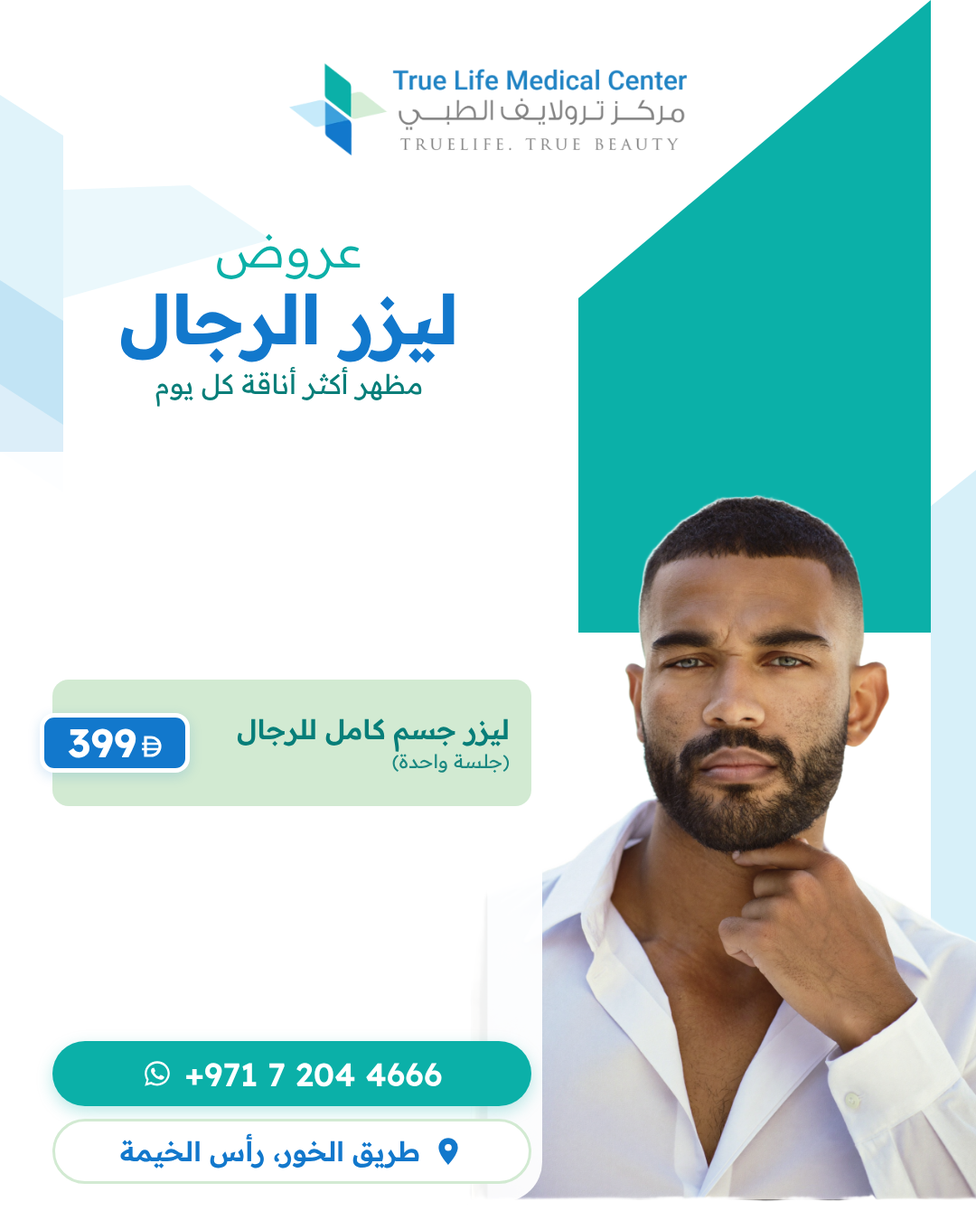
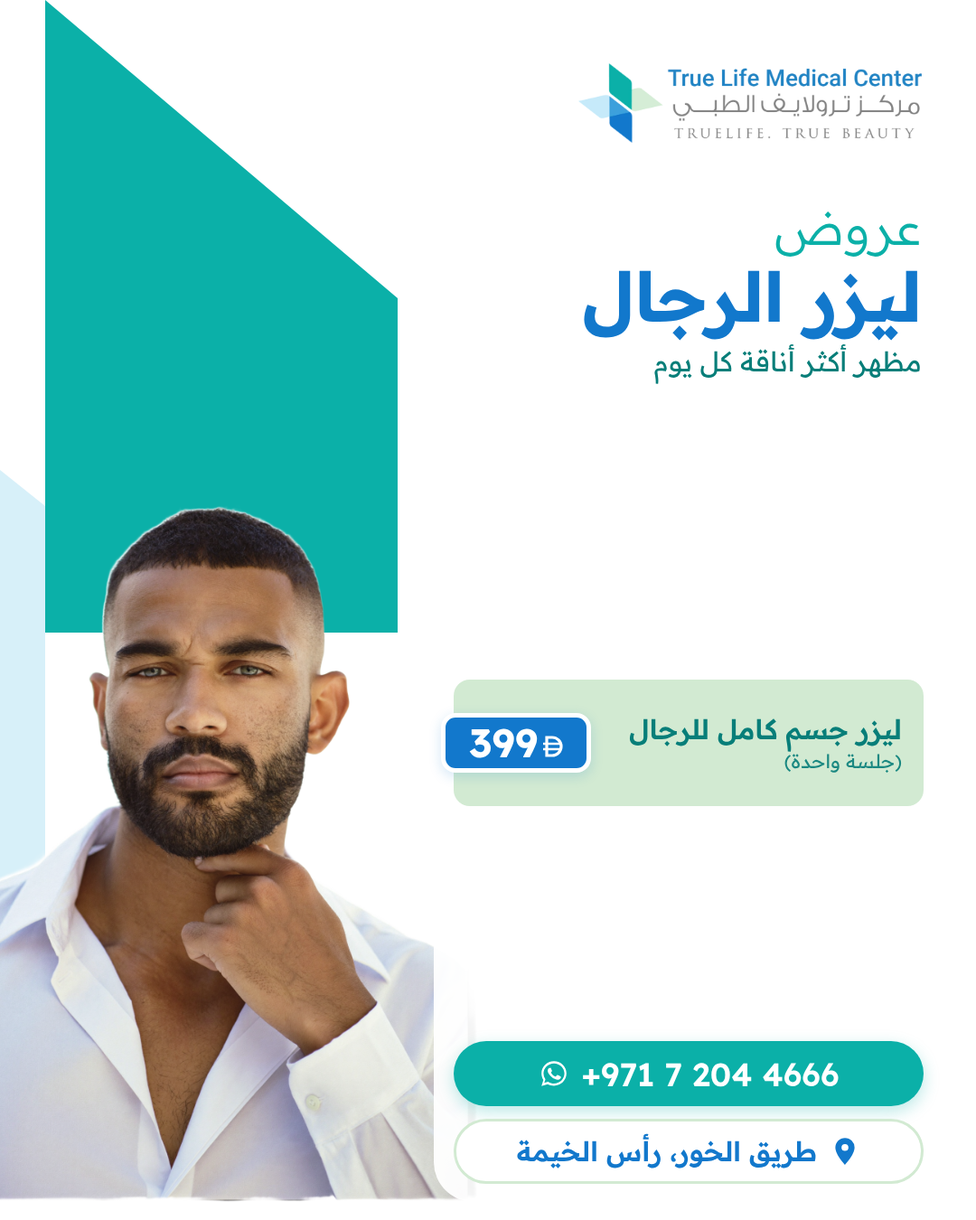
Offer covers: model left, text right-aligned
Claude-Session: https://claude.ai/code/session_01EZd6nkjhojbY1JhgPgko2h

diff --git a/designs/offers/derma.html b/designs/offers/derma.html
@@ -6,35 +6,32 @@ html,body{width:1080px;height:1350px;background:#fff;overflow:hidden}
 body{font-family:'Readex Pro',sans-serif;position:relative;direction:rtl}
 .bg{position:absolute;inset:0;width:1080px;height:1350px}
 .logo{position:absolute;top:70px;left:50%;transform:translateX(-50%);width:440px}
-.model{position:absolute;right:-70px;bottom:0;width:650px;height:auto}
-.product{position:absolute;right:-150px;bottom:150px;width:800px;height:auto}
-.title{position:absolute;top:245px;left:40px;width:560px;text-align:center}
+.model{position:absolute;left:-90px;bottom:0;width:640px;height:auto}
+.product{position:absolute;left:-170px;bottom:180px;width:760px;height:auto}
+.title{position:absolute;top:220px;right:60px;width:540px;text-align:right}
 .title .pre{font-size:56px;font-weight:300;color:var(--teal);line-height:1.1}
 .title .main{font-size:76px;font-weight:700;color:var(--blue);line-height:1.2;white-space:nowrap}
 .title .tagline{font-size:30px;font-weight:400;color:var(--deepteal);margin-top:6px;line-height:1.4}
-.panel{position:absolute;top:500px;left:0;width:600px;height:830px;background:rgba(255,255,255,.94);border-top-right-radius:44px;border-bottom-right-radius:44px}
-.rows{position:absolute;left:58px;width:530px;display:flex;flex-direction:column;gap:14px}
+.panel{position:absolute;top:500px;right:0;width:600px;height:830px;background:rgba(255,255,255,.94);border-top-left-radius:44px;border-bottom-left-radius:44px}
+.rows{position:absolute;right:58px;width:520px;display:flex;flex-direction:column;gap:14px}
 .row{position:relative;background:var(--mint);border-radius:18px;display:flex;flex-direction:column;justify-content:center;padding:10px 24px 10px 172px;text-align:right}
 .row .name{font-weight:600;color:var(--deepteal);line-height:1.35}
 .row .sub{font-size:21px;font-weight:400;color:var(--deepteal);line-height:1.4;opacity:.9}
 .pill{position:absolute;left:-14px;top:50%;transform:translateY(-50%);height:66px;min-width:166px;background:var(--blue);border:5px solid #fff;border-radius:16px;box-shadow:0 4px 14px rgba(18,120,204,.18);display:flex;align-items:center;justify-content:center;gap:6px;direction:ltr;color:#fff;padding:0 14px}
 .pill b{font-size:44px;font-weight:700;line-height:1}
 .pill svg{width:22px;height:24px;margin-top:8px}
-.footer{position:absolute;bottom:40px;left:58px;width:530px;display:flex;flex-direction:column;gap:14px}
+.footer{position:absolute;bottom:40px;right:58px;width:520px;display:flex;flex-direction:column;gap:14px}
 .chip{display:flex;align-items:center;justify-content:center;gap:14px;height:72px;border-radius:36px;padding:0 26px;font-weight:600}
 .chip svg{width:34px;height:34px;flex:none}
 .chip.wa{background:var(--teal);color:#fff;font-size:36px;direction:ltr;box-shadow:0 6px 18px rgba(11,176,168,.28)}
 .chip.loc{background:#fff;border:3px solid var(--mint);color:var(--blue);font-size:30px}
 </style></head><body>
   <svg class="bg" viewBox="0 0 1080 1350">
-    <polygon points="0,105 70,150 70,470 0,425" fill="#C6EAF6" opacity=".55"/>
-    <polygon points="0,310 70,355 70,545 0,500" fill="#3DA0DC" opacity=".18"/>
-    <polygon points="70,210 210,205 300,265 70,330" fill="#C6EAF6" opacity=".35"/>
-    <polygon points="640,330 1030,0 1030,700 640,700" fill="#0BB0A8"/>
-    <polygon points="1030,560 1080,520 1080,1100 1030,1100" fill="#C6EAF6" opacity=".7"/>
-  </svg>
+  <polygon points="440,330 50,0 50,700 440,700" fill="#0BB0A8"/>
+  <polygon points="50,560 0,520 0,1100 50,1100" fill="#C6EAF6" opacity=".7"/>
+</svg>
   <img class="model" src="model_derma.png" alt="">
-  <img class="logo" src="../brand/TL_logo_primary_1024x237.png" alt="True Life Medical Center">
+  <img class="logo" style="left:auto;right:60px;transform:none;width:380px" src="../brand/TL_logo_primary_1024x237.png" alt="True Life Medical Center">
   <div class="title"><div class="pre">عروض</div><div class="main" style="font-size:76px">الجلدية</div></div>
   <div class="panel"></div>
   <div class="rows" style="top:525px"><div class="row" style="min-height:88px"><div class="name" style="font-size:27px">بوتوكس أو فيلر</div><div class="sub">(ابتداءً من)</div><div class="pill"><b>999</b><svg viewBox="0 0 22 24"><path d="M4 2v20h6a10 10 0 0 0 0-20H4z" fill="none" stroke="#fff" stroke-width="3.2"/><path d="M0 9h20M0 15h20" stroke="#fff" stroke-width="2.4"/></svg></div></div><div class="row" style="min-height:88px"><div class="name" style="font-size:27px">إبرة سلمون DNA</div><div class="sub">+ ميني فيشال</div><div class="pill"><b>1,099</b><svg viewBox="0 0 22 24"><path d="M4 2v20h6a10 10 0 0 0 0-20H4z" fill="none" stroke="#fff" stroke-width="3.2"/><path d="M0 9h20M0 15h20" stroke="#fff" stroke-width="2.4"/></svg></div></div><div class="row" style="min-height:88px"><div class="name" style="font-size:27px">كروما سلمون DNA</div><div class="sub">+ جلسة ديرما بن</div><div class="pill"><b>1,399</b><svg viewBox="0 0 22 24"><path d="M4 2v20h6a10 10 0 0 0 0-20H4z" fill="none" stroke="#fff" stroke-width="3.2"/><path d="M0 9h20M0 15h20" stroke="#fff" stroke-width="2.4"/></svg></div></div><div class="row" style="min-height:88px"><div class="name" style="font-size:27px">إبرة لفت إيج للشد</div><div class="sub">+ ميني فيشال</div><div class="pill"><b>1,499</b><svg viewBox="0 0 22 24"><path d="M4 2v20h6a10 10 0 0 0 0-20H4z" fill="none" stroke="#fff" stroke-width="3.2"/><path d="M0 9h20M0 15h20" stroke="#fff" stroke-width="2.4"/></svg></div></div><div class="row" style="min-height:88px"><div class="name" style="font-size:27px">بوكس RRS</div><div class="sub">+ سيروم RRS PM</div><div class="pill"><b>1,999</b><svg viewBox="0 0 22 24"><path d="M4 2v20h6a10 10 0 0 0 0-20H4z" fill="none" stroke="#fff" stroke-width="3.2"/><path d="M0 9h20M0 15h20" stroke="#fff" stroke-width="2.4"/></svg></div></div><div class="row" style="min-height:88px"><div class="name" style="font-size:27px">إبرة الهارمونيكا</div><div class="sub">(للشد المائي)</div><div class="pill"><b>3,999</b><svg viewBox="0 0 22 24"><path d="M4 2v20h6a10 10 0 0 0 0-20H4z" fill="none" stroke="#fff" stroke-width="3.2"/><path d="M0 9h20M0 15h20" stroke="#fff" stroke-width="2.4"/></svg></div></div></div>

diff --git a/designs/offers/facial.html b/designs/offers/facial.html
@@ -6,35 +6,32 @@ html,body{width:1080px;height:1350px;background:#fff;overflow:hidden}
 body{font-family:'Readex Pro',sans-serif;position:relative;direction:rtl}
 .bg{position:absolute;inset:0;width:1080px;height:1350px}
 .logo{position:absolute;top:70px;left:50%;transform:translateX(-50%);width:440px}
-.model{position:absolute;right:-70px;bottom:0;width:650px;height:auto}
-.product{position:absolute;right:-150px;bottom:150px;width:800px;height:auto}
-.title{position:absolute;top:245px;left:40px;width:560px;text-align:center}
+.model{position:absolute;left:-90px;bottom:0;width:640px;height:auto}
+.product{position:absolute;left:-170px;bottom:180px;width:760px;height:auto}
+.title{position:absolute;top:220px;right:60px;width:540px;text-align:right}
 .title .pre{font-size:56px;font-weight:300;color:var(--teal);line-height:1.1}
 .title .main{font-size:76px;font-weight:700;color:var(--blue);line-height:1.2;white-space:nowrap}
 .title .tagline{font-size:30px;font-weight:400;color:var(--deepteal);margin-top:6px;line-height:1.4}
-.panel{position:absolute;top:500px;left:0;width:600px;height:830px;background:rgba(255,255,255,.94);border-top-right-radius:44px;border-bottom-right-radius:44px}
-.rows{position:absolute;left:58px;width:530px;display:flex;flex-direction:column;gap:14px}
+.panel{position:absolute;top:500px;right:0;width:600px;height:830px;background:rgba(255,255,255,.94);border-top-left-radius:44px;border-bottom-left-radius:44px}
+.rows{position:absolute;right:58px;width:520px;display:flex;flex-direction:column;gap:14px}
 .row{position:relative;background:var(--mint);border-radius:18px;display:flex;flex-direction:column;justify-content:center;padding:10px 24px 10px 172px;text-align:right}
 .row .name{font-weight:600;color:var(--deepteal);line-height:1.35}
 .row .sub{font-size:21px;font-weight:400;color:var(--deepteal);line-height:1.4;opacity:.9}
 .pill{position:absolute;left:-14px;top:50%;transform:translateY(-50%);height:66px;min-width:166px;background:var(--blue);border:5px solid #fff;border-radius:16px;box-shadow:0 4px 14px rgba(18,120,204,.18);display:flex;align-items:center;justify-content:center;gap:6px;direction:ltr;color:#fff;padding:0 14px}
 .pill b{font-size:44px;font-weight:700;line-height:1}
 .pill svg{width:22px;height:24px;margin-top:8px}
-.footer{position:absolute;bottom:40px;left:58px;width:530px;display:flex;flex-direction:column;gap:14px}
+.footer{position:absolute;bottom:40px;right:58px;width:520px;display:flex;flex-direction:column;gap:14px}
 .chip{display:flex;align-items:center;justify-content:center;gap:14px;height:72px;border-radius:36px;padding:0 26px;font-weight:600}
 .chip svg{width:34px;height:34px;flex:none}
 .chip.wa{background:var(--teal);color:#fff;font-size:36px;direction:ltr;box-shadow:0 6px 18px rgba(11,176,168,.28)}
 .chip.loc{background:#fff;border:3px solid var(--mint);color:var(--blue);font-size:30px}
 </style></head><body>
   <svg class="bg" viewBox="0 0 1080 1350">
-    <polygon points="0,105 70,150 70,470 0,425" fill="#C6EAF6" opacity=".55"/>
-    <polygon points="0,310 70,355 70,545 0,500" fill="#3DA0DC" opacity=".18"/>
-    <polygon points="70,210 210,205 300,265 70,330" fill="#C6EAF6" opacity=".35"/>
-    <polygon points="640,330 1030,0 1030,700 640,700" fill="#0BB0A8"/>
-    <polygon points="1030,560 1080,520 1080,1100 1030,1100" fill="#C6EAF6" opacity=".7"/>
-  </svg>
+  <polygon points="440,330 50,0 50,700 440,700" fill="#0BB0A8"/>
+  <polygon points="50,560 0,520 0,1100 50,1100" fill="#C6EAF6" opacity=".7"/>
+</svg>
   <img class="model" src="../facial/model_facial_cover.png" alt="">
-  <img class="logo" src="../brand/TL_logo_primary_1024x237.png" alt="True Life Medical Center">
+  <img class="logo" style="left:auto;right:60px;transform:none;width:380px" src="../brand/TL_logo_primary_1024x237.png" alt="True Life Medical Center">
   <div class="title"><div class="pre">عروض</div><div class="main" style="font-size:76px">العناية بالبشرة</div></div>
   <div class="panel"></div>
   <div class="rows" style="top:525px"><div class="row" style="min-height:108px"><div class="name" style="font-size:30px">جلسة هيدرافيشال</div><div class="sub">(للتنظيف العميق)</div><div class="pill"><b>349</b><svg viewBox="0 0 22 24"><path d="M4 2v20h6a10 10 0 0 0 0-20H4z" fill="none" stroke="#fff" stroke-width="3.2"/><path d="M0 9h20M0 15h20" stroke="#fff" stroke-width="2.4"/></svg></div></div><div class="row" style="min-height:108px"><div class="name" style="font-size:30px">هيدرافيشال + ديرما بن</div><div class="pill"><b>499</b><svg viewBox="0 0 22 24"><path d="M4 2v20h6a10 10 0 0 0 0-20H4z" fill="none" stroke="#fff" stroke-width="3.2"/><path d="M0 9h20M0 15h20" stroke="#fff" stroke-width="2.4"/></svg></div></div><div class="row" style="min-height:108px"><div class="name" style="font-size:30px">تنظيف عميق للظهر</div><div class="sub">(ابتداءً من)</div><div class="pill"><b>499</b><svg viewBox="0 0 22 24"><path d="M4 2v20h6a10 10 0 0 0 0-20H4z" fill="none" stroke="#fff" stroke-width="3.2"/><path d="M0 9h20M0 15h20" stroke="#fff" stroke-width="2.4"/></svg></div></div><div class="row" style="min-height:108px"><div class="name" style="font-size:30px">الفيشل الروسي</div><div class="pill"><b>499</b><svg viewBox="0 0 22 24"><path d="M4 2v20h6a10 10 0 0 0 0-20H4z" fill="none" stroke="#fff" stroke-width="3.2"/><path d="M0 9h20M0 15h20" stroke="#fff" stroke-width="2.4"/></svg></div></div><div class="row" style="min-height:108px"><div class="name" style="font-size:30px">التقشير الذكي</div><div class="sub">(التقشير الأخضر – ابتداءً من)</div><div class="pill"><b>499</b><svg viewBox="0 0 22 24"><path d="M4 2v20h6a10 10 0 0 0 0-20H4z" fill="none" stroke="#fff" stroke-width="3.2"/><path d="M0 9h20M0 15h20" stroke="#fff" stroke-width="2.4"/></svg></div></div></div>

diff --git a/designs/offers/massage.html b/designs/offers/massage.html
@@ -6,35 +6,32 @@ html,body{width:1080px;height:1350px;background:#fff;overflow:hidden}
 body{font-family:'Readex Pro',sans-serif;position:relative;direction:rtl}
 .bg{position:absolute;inset:0;width:1080px;height:1350px}
 .logo{position:absolute;top:70px;left:50%;transform:translateX(-50%);width:440px}
-.model{position:absolute;right:-70px;bottom:0;width:650px;height:auto}
-.product{position:absolute;right:-150px;bottom:150px;width:800px;height:auto}
-.title{position:absolute;top:245px;left:40px;width:560px;text-align:center}
+.model{position:absolute;left:-90px;bottom:0;width:640px;height:auto}
+.product{position:absolute;left:-170px;bottom:180px;width:760px;height:auto}
+.title{position:absolute;top:220px;right:60px;width:540px;text-align:right}
 .title .pre{font-size:56px;font-weight:300;color:var(--teal);line-height:1.1}
 .title .main{font-size:76px;font-weight:700;color:var(--blue);line-height:1.2;white-space:nowrap}
 .title .tagline{font-size:30px;font-weight:400;color:var(--deepteal);margin-top:6px;line-height:1.4}
-.panel{position:absolute;top:500px;left:0;width:600px;height:830px;background:rgba(255,255,255,.94);border-top-right-radius:44px;border-bottom-right-radius:44px}
-.rows{position:absolute;left:58px;width:530px;display:flex;flex-direction:column;gap:14px}
+.panel{position:absolute;top:500px;right:0;width:600px;height:830px;background:rgba(255,255,255,.94);border-top-left-radius:44px;border-bottom-left-radius:44px}
+.rows{position:absolute;right:58px;width:520px;display:flex;flex-direction:column;gap:14px}
 .row{position:relative;background:var(--mint);border-radius:18px;display:flex;flex-direction:column;justify-content:center;padding:10px 24px 10px 172px;text-align:right}
 .row .name{font-weight:600;color:var(--deepteal);line-height:1.35}
 .row .sub{font-size:21px;font-weight:400;color:var(--deepteal);line-height:1.4;opacity:.9}
 .pill{position:absolute;left:-14px;top:50%;transform:translateY(-50%);height:66px;min-width:166px;background:var(--blue);border:5px solid #fff;border-radius:16px;box-shadow:0 4px 14px rgba(18,120,204,.18);display:flex;align-items:center;justify-content:center;gap:6px;direction:ltr;color:#fff;padding:0 14px}
 .pill b{font-size:44px;font-weight:700;line-height:1}
 .pill svg{width:22px;height:24px;margin-top:8px}
-.footer{position:absolute;bottom:40px;left:58px;width:530px;display:flex;flex-direction:column;gap:14px}
+.footer{position:absolute;bottom:40px;right:58px;width:520px;display:flex;flex-direction:column;gap:14px}
 .chip{display:flex;align-items:center;justify-content:center;gap:14px;height:72px;border-radius:36px;padding:0 26px;font-weight:600}
 .chip svg{width:34px;height:34px;flex:none}
 .chip.wa{background:var(--teal);color:#fff;font-size:36px;direction:ltr;box-shadow:0 6px 18px rgba(11,176,168,.28)}
 .chip.loc{background:#fff;border:3px solid var(--mint);color:var(--blue);font-size:30px}
 </style></head><body>
   <svg class="bg" viewBox="0 0 1080 1350">
-    <polygon points="0,105 70,150 70,470 0,425" fill="#C6EAF6" opacity=".55"/>
-    <polygon points="0,310 70,355 70,545 0,500" fill="#3DA0DC" opacity=".18"/>
-    <polygon points="70,210 210,205 300,265 70,330" fill="#C6EAF6" opacity=".35"/>
-    <polygon points="640,330 1030,0 1030,700 640,700" fill="#0BB0A8"/>
-    <polygon points="1030,560 1080,520 1080,1100 1030,1100" fill="#C6EAF6" opacity=".7"/>
-  </svg>
+  <polygon points="440,330 50,0 50,700 440,700" fill="#0BB0A8"/>
+  <polygon points="50,560 0,520 0,1100 50,1100" fill="#C6EAF6" opacity=".7"/>
+</svg>
   <img class="product" src="model_massage.png" alt="">
-  <img class="logo" src="../brand/TL_logo_primary_1024x237.png" alt="True Life Medical Center">
+  <img class="logo" style="left:auto;right:60px;transform:none;width:380px" src="../brand/TL_logo_primary_1024x237.png" alt="True Life Medical Center">
   <div class="title"><div class="pre">عروض</div><div class="main" style="font-size:76px">المساج</div><div class="tagline">استرخاء وعناية تشعرك بالتجدد</div></div>
   <div class="panel"></div>
   <div class="rows" style="top:598px"><div class="row" style="min-height:140px"><div class="name" style="font-size:30px">مساج استرخائي</div><div class="sub">(3 جلسات)</div><div class="pill"><b>499</b><svg viewBox="0 0 22 24"><path d="M4 2v20h6a10 10 0 0 0 0-20H4z" fill="none" stroke="#fff" stroke-width="3.2"/><path d="M0 9h20M0 15h20" stroke="#fff" stroke-width="2.4"/></svg></div></div><div class="row" style="min-height:140px"><div class="name" style="font-size:30px">مساج لمفاوي</div><div class="sub">(3 جلسات – لتصريف السوائل)</div><div class="pill"><b>499</b><svg viewBox="0 0 22 24"><path d="M4 2v20h6a10 10 0 0 0 0-20H4z" fill="none" stroke="#fff" stroke-width="3.2"/><path d="M0 9h20M0 15h20" stroke="#fff" stroke-width="2.4"/></svg></div></div><div class="row" style="min-height:140px"><div class="name" style="font-size:30px">مساج الأخشاب ماديرو</div><div class="sub">(3 جلسات – للسيلوليت)</div><div class="pill"><b>499</b><svg viewBox="0 0 22 24"><path d="M4 2v20h6a10 10 0 0 0 0-20H4z" fill="none" stroke="#fff" stroke-width="3.2"/><path d="M0 9h20M0 15h20" stroke="#fff" stroke-width="2.4"/></svg></div></div></div>

diff --git a/designs/offers/laser_women.html b/designs/offers/laser_women.html
@@ -6,35 +6,32 @@ html,body{width:1080px;height:1350px;background:#fff;overflow:hidden}
 body{font-family:'Readex Pro',sans-serif;position:relative;direction:rtl}
 .bg{position:absolute;inset:0;width:1080px;height:1350px}
 .logo{position:absolute;top:70px;left:50%;transform:translateX(-50%);width:440px}
-.model{position:absolute;right:-70px;bottom:0;width:650px;height:auto}
-.product{position:absolute;right:-150px;bottom:150px;width:800px;height:auto}
-.title{position:absolute;top:245px;left:40px;width:560px;text-align:center}
+.model{position:absolute;left:-90px;bottom:0;width:640px;height:auto}
+.product{position:absolute;left:-170px;bottom:180px;width:760px;height:auto}
+.title{position:absolute;top:220px;right:60px;width:540px;text-align:right}
 .title .pre{font-size:56px;font-weight:300;color:var(--teal);line-height:1.1}
 .title .main{font-size:76px;font-weight:700;color:var(--blue);line-height:1.2;white-space:nowrap}
 .title .tagline{font-size:30px;font-weight:400;color:var(--deepteal);margin-top:6px;line-height:1.4}
-.panel{position:absolute;top:500px;left:0;width:600px;height:830px;background:rgba(255,255,255,.94);border-top-right-radius:44px;border-bottom-right-radius:44px}
-.rows{position:absolute;left:58px;width:530px;display:flex;flex-direction:column;gap:14px}
+.panel{position:absolute;top:500px;right:0;width:600px;height:830px;background:rgba(255,255,255,.94);border-top-left-radius:44px;border-bottom-left-radius:44px}
+.rows{position:absolute;right:58px;width:520px;display:flex;flex-direction:column;gap:14px}
 .row{position:relative;background:var(--mint);border-radius:18px;display:flex;flex-direction:column;justify-content:center;padding:10px 24px 10px 172px;text-align:right}
 .row .name{font-weight:600;color:var(--deepteal);line-height:1.35}
 .row .sub{font-size:21px;font-weight:400;color:var(--deepteal);line-height:1.4;opacity:.9}
 .pill{position:absolute;left:-14px;top:50%;transform:translateY(-50%);height:66px;min-width:166px;background:var(--blue);border:5px solid #fff;border-radius:16px;box-shadow:0 4px 14px rgba(18,120,204,.18);display:flex;align-items:center;justify-content:center;gap:6px;direction:ltr;color:#fff;padding:0 14px}
 .pill b{font-size:44px;font-weight:700;line-height:1}
 .pill svg{width:22px;height:24px;margin-top:8px}
-.footer{position:absolute;bottom:40px;left:58px;width:530px;display:flex;flex-direction:column;gap:14px}
+.footer{position:absolute;bottom:40px;right:58px;width:520px;display:flex;flex-direction:column;gap:14px}
 .chip{display:flex;align-items:center;justify-content:center;gap:14px;height:72px;border-radius:36px;padding:0 26px;font-weight:600}
 .chip svg{width:34px;height:34px;flex:none}
 .chip.wa{background:var(--teal);color:#fff;font-size:36px;direction:ltr;box-shadow:0 6px 18px rgba(11,176,168,.28)}
 .chip.loc{background:#fff;border:3px solid var(--mint);color:var(--blue);font-size:30px}
 </style></head><body>
   <svg class="bg" viewBox="0 0 1080 1350">
-    <polygon points="0,105 70,150 70,470 0,425" fill="#C6EAF6" opacity=".55"/>
-    <polygon points="0,310 70,355 70,545 0,500" fill="#3DA0DC" opacity=".18"/>
-    <polygon points="70,210 210,205 300,265 70,330" fill="#C6EAF6" opacity=".35"/>
-    <polygon points="640,330 1030,0 1030,700 640,700" fill="#0BB0A8"/>
-    <polygon points="1030,560 1080,520 1080,1100 1030,1100" fill="#C6EAF6" opacity=".7"/>
-  </svg>
+  <polygon points="440,330 50,0 50,700 440,700" fill="#0BB0A8"/>
+  <polygon points="50,560 0,520 0,1100 50,1100" fill="#C6EAF6" opacity=".7"/>
+</svg>
   <img class="model" src="model_laser_women.png" alt="">
-  <img class="logo" src="../brand/TL_logo_primary_1024x237.png" alt="True Life Medical Center">
+  <img class="logo" style="left:auto;right:60px;transform:none;width:380px" src="../brand/TL_logo_primary_1024x237.png" alt="True Life Medical Center">
   <div class="title"><div class="pre">عروض</div><div class="main" style="font-size:76px">الليزر</div><div class="tagline">بشرة أنعم كل يوم</div></div>
   <div class="panel"></div>
   <div class="rows" style="top:598px"><div class="row" style="min-height:140px"><div class="name" style="font-size:30px">ليزر جسم كامل</div><div class="sub">(بدون بطن وظهر – جلسة واحدة)</div><div class="pill"><b>299</b><svg viewBox="0 0 22 24"><path d="M4 2v20h6a10 10 0 0 0 0-20H4z" fill="none" stroke="#fff" stroke-width="3.2"/><path d="M0 9h20M0 15h20" stroke="#fff" stroke-width="2.4"/></svg></div></div><div class="row" style="min-height:140px"><div class="name" style="font-size:30px">سوفت لايت للوجه</div><div class="sub">(4 جلسات)</div><div class="pill"><b>399</b><svg viewBox="0 0 22 24"><path d="M4 2v20h6a10 10 0 0 0 0-20H4z" fill="none" stroke="#fff" stroke-width="3.2"/><path d="M0 9h20M0 15h20" stroke="#fff" stroke-width="2.4"/></svg></div></div><div class="row" style="min-height:140px"><div class="name" style="font-size:30px">ليزر وجه أو إبط أو بكيني</div><div class="sub">(3 جلسات)</div><div class="pill"><b>449</b><svg viewBox="0 0 22 24"><path d="M4 2v20h6a10 10 0 0 0 0-20H4z" fill="none" stroke="#fff" stroke-width="3.2"/><path d="M0 9h20M0 15h20" stroke="#fff" stroke-width="2.4"/></svg></div></div></div>

diff --git a/designs/offers/slimming.html b/designs/offers/slimming.html
@@ -6,35 +6,32 @@ html,body{width:1080px;height:1350px;background:#fff;overflow:hidden}
 body{font-family:'Readex Pro',sans-serif;position:relative;direction:rtl}
 .bg{position:absolute;inset:0;width:1080px;height:1350px}
 .logo{position:absolute;top:70px;left:50%;transform:translateX(-50%);width:440px}
-.model{position:absolute;right:-70px;bottom:0;width:650px;height:auto}
-.product{position:absolute;right:-150px;bottom:150px;width:800px;height:auto}
-.title{position:absolute;top:245px;left:40px;width:560px;text-align:center}
+.model{position:absolute;left:-90px;bottom:0;width:640px;height:auto}
+.product{position:absolute;left:-170px;bottom:180px;width:760px;height:auto}
+.title{position:absolute;top:220px;right:60px;width:540px;text-align:right}
 .title .pre{font-size:56px;font-weight:300;color:var(--teal);line-height:1.1}
 .title .main{font-size:76px;font-weight:700;color:var(--blue);line-height:1.2;white-space:nowrap}
 .title .tagline{font-size:30px;font-weight:400;color:var(--deepteal);margin-top:6px;line-height:1.4}
-.panel{position:absolute;top:500px;left:0;width:600px;height:830px;background:rgba(255,255,255,.94);border-top-right-radius:44px;border-bottom-right-radius:44px}
-.rows{position:absolute;left:58px;width:530px;display:flex;flex-direction:column;gap:14px}
+.panel{position:absolute;top:500px;right:0;width:600px;height:830px;background:rgba(255,255,255,.94);border-top-left-radius:44px;border-bottom-left-radius:44px}
+.rows{position:absolute;right:58px;width:520px;display:flex;flex-direction:column;gap:14px}
 .row{position:relative;background:var(--mint);border-radius:18px;display:flex;flex-direction:column;justify-content:center;padding:10px 24px 10px 172px;text-align:right}
 .row .name{font-weight:600;color:var(--deepteal);line-height:1.35}
 .row .sub{font-size:21px;font-weight:400;color:var(--deepteal);line-height:1.4;opacity:.9}
 .pill{position:absolute;left:-14px;top:50%;transform:translateY(-50%);height:66px;min-width:166px;background:var(--blue);border:5px solid #fff;border-radius:16px;box-shadow:0 4px 14px rgba(18,120,204,.18);display:flex;align-items:center;justify-content:center;gap:6px;direction:ltr;color:#fff;padding:0 14px}
 .pill b{font-size:44px;font-weight:700;line-height:1}
 .pill svg{width:22px;height:24px;margin-top:8px}
-.footer{position:absolute;bottom:40px;left:58px;width:530px;display:flex;flex-direction:column;gap:14px}
+.footer{position:absolute;bottom:40px;right:58px;width:520px;display:flex;flex-direction:column;gap:14px}
 .chip{display:flex;align-items:center;justify-content:center;gap:14px;height:72px;border-radius:36px;padding:0 26px;font-weight:600}
 .chip svg{width:34px;height:34px;flex:none}
 .chip.wa{background:var(--teal);color:#fff;font-size:36px;direction:ltr;box-shadow:0 6px 18px rgba(11,176,168,.28)}
 .chip.loc{background:#fff;border:3px solid var(--mint);color:var(--blue);font-size:30px}
 </style></head><body>
   <svg class="bg" viewBox="0 0 1080 1350">
-    <polygon points="0,105 70,150 70,470 0,425" fill="#C6EAF6" opacity=".55"/>
-    <polygon points="0,310 70,355 70,545 0,500" fill="#3DA0DC" opacity=".18"/>
-    <polygon points="70,210 210,205 300,265 70,330" fill="#C6EAF6" opacity=".35"/>
-    <polygon points="640,330 1030,0 1030,700 640,700" fill="#0BB0A8"/>
-    <polygon points="1030,560 1080,520 1080,1100 1030,1100" fill="#C6EAF6" opacity=".7"/>
-  </svg>
+  <polygon points="440,330 50,0 50,700 440,700" fill="#0BB0A8"/>
+  <polygon points="50,560 0,520 0,1100 50,1100" fill="#C6EAF6" opacity=".7"/>
+</svg>
   <img class="model" src="model_slimming.png" alt="">
-  <img class="logo" src="../brand/TL_logo_primary_1024x237.png" alt="True Life Medical Center">
+  <img class="logo" style="left:auto;right:60px;transform:none;width:380px" src="../brand/TL_logo_primary_1024x237.png" alt="True Life Medical Center">
   <div class="title"><div class="pre">عروض</div><div class="main" style="font-size:76px">التنحيف</div><div class="tagline">لبطن أنحف وأكثر شداً</div></div>
   <div class="panel"></div>
   <div class="rows" style="top:675px"><div class="row" style="min-height:140px"><div class="name" style="font-size:30px">تكسير الدهون للبطن</div><div class="sub">(3 جلسات)</div><div class="pill"><b>999</b><svg viewBox="0 0 22 24"><path d="M4 2v20h6a10 10 0 0 0 0-20H4z" fill="none" stroke="#fff" stroke-width="3.2"/><path d="M0 9h20M0 15h20" stroke="#fff" stroke-width="2.4"/></svg></div></div><div class="row" style="min-height:140px"><div class="name" style="font-size:30px">تقوية عضلات البطن</div><div class="sub">(3 جلسات)</div><div class="pill"><b>999</b><svg viewBox="0 0 22 24"><path d="M4 2v20h6a10 10 0 0 0 0-20H4z" fill="none" stroke="#fff" stroke-width="3.2"/><path d="M0 9h20M0 15h20" stroke="#fff" stroke-width="2.4"/></svg></div></div></div>

diff --git a/designs/offers/laser_men.html b/designs/offers/laser_men.html
@@ -6,35 +6,32 @@ html,body{width:1080px;height:1350px;background:#fff;overflow:hidden}
 body{font-family:'Readex Pro',sans-serif;position:relative;direction:rtl}
 .bg{position:absolute;inset:0;width:1080px;height:1350px}
 .logo{position:absolute;top:70px;left:50%;transform:translateX(-50%);width:440px}
-.model{position:absolute;right:-70px;bottom:0;width:650px;height:auto}
-.product{position:absolute;right:-150px;bottom:150px;width:800px;height:auto}
-.title{position:absolute;top:245px;left:40px;width:560px;text-align:center}
+.model{position:absolute;left:-90px;bottom:0;width:640px;height:auto}
+.product{position:absolute;left:-170px;bottom:180px;width:760px;height:auto}
+.title{position:absolute;top:220px;right:60px;width:540px;text-align:right}
 .title .pre{font-size:56px;font-weight:300;color:var(--teal);line-height:1.1}
 .title .main{font-size:76px;font-weight:700;color:var(--blue);line-height:1.2;white-space:nowrap}
 .title .tagline{font-size:30px;font-weight:400;color:var(--deepteal);margin-top:6px;line-height:1.4}
-.panel{position:absolute;top:500px;left:0;width:600px;height:830px;background:rgba(255,255,255,.94);border-top-right-radius:44px;border-bottom-right-radius:44px}
-.rows{position:absolute;left:58px;width:530px;display:flex;flex-direction:column;gap:14px}
+.panel{position:absolute;top:500px;right:0;width:600px;height:830px;background:rgba(255,255,255,.94);border-top-left-radius:44px;border-bottom-left-radius:44px}
+.rows{position:absolute;right:58px;width:520px;display:flex;flex-direction:column;gap:14px}
 .row{position:relative;background:var(--mint);border-radius:18px;display:flex;flex-direction:column;justify-content:center;padding:10px 24px 10px 172px;text-align:right}
 .row .name{font-weight:600;color:var(--deepteal);line-height:1.35}
 .row .sub{font-size:21px;font-weight:400;color:var(--deepteal);line-height:1.4;opacity:.9}
 .pill{position:absolute;left:-14px;top:50%;transform:translateY(-50%);height:66px;min-width:166px;background:var(--blue);border:5px solid #fff;border-radius:16px;box-shadow:0 4px 14px rgba(18,120,204,.18);display:flex;align-items:center;justify-content:center;gap:6px;direction:ltr;color:#fff;padding:0 14px}
 .pill b{font-size:44px;font-weight:700;line-height:1}
 .pill svg{width:22px;height:24px;margin-top:8px}
-.footer{position:absolute;bottom:40px;left:58px;width:530px;display:flex;flex-direction:column;gap:14px}
+.footer{position:absolute;bottom:40px;right:58px;width:520px;display:flex;flex-direction:column;gap:14px}
 .chip{display:flex;align-items:center;justify-content:center;gap:14px;height:72px;border-radius:36px;padding:0 26px;font-weight:600}
 .chip svg{width:34px;height:34px;flex:none}
 .chip.wa{background:var(--teal);color:#fff;font-size:36px;direction:ltr;box-shadow:0 6px 18px rgba(11,176,168,.28)}
 .chip.loc{background:#fff;border:3px solid var(--mint);color:var(--blue);font-size:30px}
 </style></head><body>
   <svg class="bg" viewBox="0 0 1080 1350">
-    <polygon points="0,105 70,150 70,470 0,425" fill="#C6EAF6" opacity=".55"/>
-    <polygon points="0,310 70,355 70,545 0,500" fill="#3DA0DC" opacity=".18"/>
-    <polygon points="70,210 210,205 300,265 70,330" fill="#C6EAF6" opacity=".35"/>
-    <polygon points="640,330 1030,0 1030,700 640,700" fill="#0BB0A8"/>
-    <polygon points="1030,560 1080,520 1080,1100 1030,1100" fill="#C6EAF6" opacity=".7"/>
-  </svg>
+  <polygon points="440,330 50,0 50,700 440,700" fill="#0BB0A8"/>
+  <polygon points="50,560 0,520 0,1100 50,1100" fill="#C6EAF6" opacity=".7"/>
+</svg>
   <img class="model" src="model_laser_men.png" alt="">
-  <img class="logo" src="../brand/TL_logo_primary_1024x237.png" alt="True Life Medical Center">
+  <img class="logo" style="left:auto;right:60px;transform:none;width:380px" src="../brand/TL_logo_primary_1024x237.png" alt="True Life Medical Center">
   <div class="title"><div class="pre">عروض</div><div class="main" style="font-size:76px">ليزر الرجال</div><div class="tagline">مظهر أكثر أناقة كل يوم</div></div>
   <div class="panel"></div>
   <div class="rows" style="top:752px"><div class="row" style="min-height:140px"><div class="name" style="font-size:30px">ليزر جسم كامل للرجال</div><div class="sub">(جلسة واحدة)</div><div class="pill"><b>399</b><svg viewBox="0 0 22 24"><path d="M4 2v20h6a10 10 0 0 0 0-20H4z" fill="none" stroke="#fff" stroke-width="3.2"/><path d="M0 9h20M0 15h20" stroke="#fff" stroke-width="2.4"/></svg></div></div></div>

diff --git a/designs/offers/bride_groom.html b/designs/offers/bride_groom.html
@@ -6,35 +6,32 @@ html,body{width:1080px;height:1350px;background:#fff;overflow:hidden}
 body{font-family:'Readex Pro',sans-serif;position:relative;direction:rtl}
 .bg{position:absolute;inset:0;width:1080px;height:1350px}
 .logo{position:absolute;top:70px;left:50%;transform:translateX(-50%);width:440px}
-.model{position:absolute;right:-70px;bottom:0;width:650px;height:auto}
-.product{position:absolute;right:-150px;bottom:150px;width:800px;height:auto}
-.title{position:absolute;top:245px;left:40px;width:560px;text-align:center}
+.model{position:absolute;left:-90px;bottom:0;width:640px;height:auto}
+.product{position:absolute;left:-170px;bottom:180px;width:760px;height:auto}
+.title{position:absolute;top:220px;right:60px;width:540px;text-align:right}
 .title .pre{font-size:56px;font-weight:300;color:var(--teal);line-height:1.1}
 .title .main{font-size:76px;font-weight:700;color:var(--blue);line-height:1.2;white-space:nowrap}
 .title .tagline{font-size:30px;font-weight:400;color:var(--deepteal);margin-top:6px;line-height:1.4}
-.panel{position:absolute;top:500px;left:0;width:600px;height:830px;background:rgba(255,255,255,.94);border-top-right-radius:44px;border-bottom-right-radius:44px}
-.rows{position:absolute;left:58px;width:530px;display:flex;flex-direction:column;gap:14px}
+.panel{position:absolute;top:500px;right:0;width:600px;height:830px;background:rgba(255,255,255,.94);border-top-left-radius:44px;border-bottom-left-radius:44px}
+.rows{position:absolute;right:58px;width:520px;display:flex;flex-direction:column;gap:14px}
 .row{position:relative;background:var(--mint);border-radius:18px;display:flex;flex-direction:column;justify-content:center;padding:10px 24px 10px 172px;text-align:right}
 .row .name{font-weight:600;color:var(--deepteal);line-height:1.35}
 .row .sub{font-size:21px;font-weight:400;color:var(--deepteal);line-height:1.4;opacity:.9}
 .pill{position:absolute;left:-14px;top:50%;transform:translateY(-50%);height:66px;min-width:166px;background:var(--blue);border:5px solid #fff;border-radius:16px;box-shadow:0 4px 14px rgba(18,120,204,.18);display:flex;align-items:center;justify-content:center;gap:6px;direction:ltr;color:#fff;padding:0 14px}
 .pill b{font-size:44px;font-weight:700;line-height:1}
 .pill svg{width:22px;height:24px;margin-top:8px}
-.footer{position:absolute;bottom:40px;left:58px;width:530px;display:flex;flex-direction:column;gap:14px}
+.footer{position:absolute;bottom:40px;right:58px;width:520px;display:flex;flex-direction:column;gap:14px}
 .chip{display:flex;align-items:center;justify-content:center;gap:14px;height:72px;border-radius:36px;padding:0 26px;font-weight:600}
 .chip svg{width:34px;height:34px;flex:none}
 .chip.wa{background:var(--teal);color:#fff;font-size:36px;direction:ltr;box-shadow:0 6px 18px rgba(11,176,168,.28)}
 .chip.loc{background:#fff;border:3px solid var(--mint);color:var(--blue);font-size:30px}
 </style></head><body>
   <svg class="bg" viewBox="0 0 1080 1350">
-    <polygon points="0,105 70,150 70,470 0,425" fill="#C6EAF6" opacity=".55"/>
-    <polygon points="0,310 70,355 70,545 0,500" fill="#3DA0DC" opacity=".18"/>
-    <polygon points="70,210 210,205 300,265 70,330" fill="#C6EAF6" opacity=".35"/>
-    <polygon points="640,330 1030,0 1030,700 640,700" fill="#0BB0A8"/>
-    <polygon points="1030,560 1080,520 1080,1100 1030,1100" fill="#C6EAF6" opacity=".7"/>
-  </svg>
+  <polygon points="440,330 50,0 50,700 440,700" fill="#0BB0A8"/>
+  <polygon points="50,560 0,520 0,1100 50,1100" fill="#C6EAF6" opacity=".7"/>
+</svg>
   <img class="model" src="model_bride_groom.png" alt="">
-  <img class="logo" src="../brand/TL_logo_primary_1024x237.png" alt="True Life Medical Center">
+  <img class="logo" style="left:auto;right:60px;transform:none;width:380px" src="../brand/TL_logo_primary_1024x237.png" alt="True Life Medical Center">
   <div class="title"><div class="pre">باكدج</div><div class="main" style="font-size:76px">الزفاف</div><div class="tagline">جاهزين ليومكم الكبير</div></div>
   <div class="panel"></div>
   <div class="rows" style="top:752px"><div class="row" style="min-height:140px"><div class="name" style="font-size:30px">مساج وهيدرافيشال</div><div class="sub">+ إبرة نضارة</div><div class="pill"><b>1,499</b><svg viewBox="0 0 22 24"><path d="M4 2v20h6a10 10 0 0 0 0-20H4z" fill="none" stroke="#fff" stroke-width="3.2"/><path d="M0 9h20M0 15h20" stroke="#fff" stroke-width="2.4"/></svg></div></div></div>

diff --git a/designs/offers/offer.css b/designs/offers/offer.css
@@ -4,21 +4,21 @@ html,body{width:1080px;height:1350px;background:#fff;overflow:hidden}
 body{font-family:'Readex Pro',sans-serif;position:relative;direction:rtl}
 .bg{position:absolute;inset:0;width:1080px;height:1350px}
 .logo{position:absolute;top:70px;left:50%;transform:translateX(-50%);width:440px}
-.model{position:absolute;right:-70px;bottom:0;width:650px;height:auto}
-.product{position:absolute;right:-150px;bottom:150px;width:800px;height:auto}
-.title{position:absolute;top:245px;left:40px;width:560px;text-align:center}
+.model{position:absolute;left:-90px;bottom:0;width:640px;height:auto}
+.product{position:absolute;left:-170px;bottom:180px;width:760px;height:auto}
+.title{position:absolute;top:220px;right:60px;width:540px;text-align:right}
 .title .pre{font-size:56px;font-weight:300;color:var(--teal);line-height:1.1}
 .title .main{font-size:76px;font-weight:700;color:var(--blue);line-height:1.2;white-space:nowrap}
 .title .tagline{font-size:30px;font-weight:400;color:var(--deepteal);margin-top:6px;line-height:1.4}
-.panel{position:absolute;top:500px;left:0;width:600px;height:830px;background:rgba(255,255,255,.94);border-top-right-radius:44px;border-bottom-right-radius:44px}
-.rows{position:absolute;left:58px;width:530px;display:flex;flex-direction:column;gap:14px}
+.panel{position:absolute;top:500px;right:0;width:600px;height:830px;background:rgba(255,255,255,.94);border-top-left-radius:44px;border-bottom-left-radius:44px}
+.rows{position:absolute;right:58px;width:520px;display:flex;flex-direction:column;gap:14px}
 .row{position:relative;background:var(--mint);border-radius:18px;display:flex;flex-direction:column;justify-content:center;padding:10px 24px 10px 172px;text-align:right}
 .row .name{font-weight:600;color:var(--deepteal);line-height:1.35}
 .row .sub{font-size:21px;font-weight:400;color:var(--deepteal);line-height:1.4;opacity:.9}
 .pill{position:absolute;left:-14px;top:50%;transform:translateY(-50%);height:66px;min-width:166px;background:var(--blue);border:5px solid #fff;border-radius:16px;box-shadow:0 4px 14px rgba(18,120,204,.18);display:flex;align-items:center;justify-content:center;gap:6px;direction:ltr;color:#fff;padding:0 14px}
 .pill b{font-size:44px;font-weight:700;line-height:1}
 .pill svg{width:22px;height:24px;margin-top:8px}
-.footer{position:absolute;bottom:40px;left:58px;width:530px;display:flex;flex-direction:column;gap:14px}
+.footer{position:absolute;bottom:40px;right:58px;width:520px;display:flex;flex-direction:column;gap:14px}
 .chip{display:flex;align-items:center;justify-content:center;gap:14px;height:72px;border-radius:36px;padding:0 26px;font-weight:600}
 .chip svg{width:34px;height:34px;flex:none}
 .chip.wa{background:var(--teal);color:#fff;font-size:36px;direction:ltr;box-shadow:0 6px 18px rgba(11,176,168,.28)}

diff --git a/designs/offers/gen_offer.py b/designs/offers/gen_offer.py
@@ -22,14 +22,11 @@ def build():
   <link href="https://fonts.googleapis.com/css2?family=Readex+Pro:wght@300;400;500;600;700&display=swap" rel="stylesheet">
   <style>{CSS}</style></head><body>
   <svg class="bg" viewBox="0 0 1080 1350">
-    <polygon points="0,105 70,150 70,470 0,425" fill="#C6EAF6" opacity=".55"/>
-    <polygon points="0,310 70,355 70,545 0,500" fill="#3DA0DC" opacity=".18"/>
-    <polygon points="70,210 210,205 300,265 70,330" fill="#C6EAF6" opacity=".35"/>
-    <polygon points="640,330 1030,0 1030,700 640,700" fill="#0BB0A8"/>
-    <polygon points="1030,560 1080,520 1080,1100 1030,1100" fill="#C6EAF6" opacity=".7"/>
-  </svg>
+  <polygon points="440,330 50,0 50,700 440,700" fill="#0BB0A8"/>
+  <polygon points="50,560 0,520 0,1100 50,1100" fill="#C6EAF6" opacity=".7"/>
+</svg>
   <img class="{model_cls}" src="{o['model']}" alt="">
-  <img class="logo" src="../brand/TL_logo_primary_1024x237.png" alt="True Life Medical Center">
+  <img class="logo" style="left:auto;right:60px;transform:none;width:380px" src="../brand/TL_logo_primary_1024x237.png" alt="True Life Medical Center">
   <div class="title"><div class="pre">{o['pre']}</div><div class="main" style="font-size:{o.get('main_size',76)}px">{o['main']}</div>{tag}</div>
   <div class="panel"></div>
   <div class="rows" style="top:{top}px">{rows}</div>
